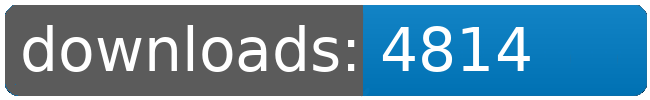
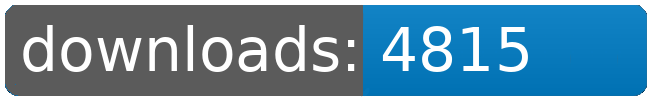
dl log written

Changed region(s): [[0.7692, 0.27, 0.8308, 0.72]]

diff --git a/README.md b/README.md
@@ -21,8 +21,8 @@
 		<td>4737</td>
 		<td>4764</td>
 		<td>4795</td>
-		<td>4814</td>
-		<td>+ 19</td>
+		<td>4815</td>
+		<td>+ 20</td>
 	</tr>
 	<tr>
 		<td>Factory.Outlets</td>
@@ -109,8 +109,8 @@
 		<td></td>
 		<td></td>
 		<td></td>
-		<td>39348</td>
-		<td>130</td>
+		<td>39349</td>
+		<td>131</td>
 	</tr>
 </table>
 </sub></sup>
@@ -157,8 +157,8 @@
 		<td>4737</td>
 		<td>4764</td>
 		<td>4795</td>
-		<td>4814</td>
-		<td>+ 19</td>
+		<td>4815</td>
+		<td>+ 20</td>
 	</tr>
 	<tr>
 		<td>Korunak.Defense.Drones</td>
@@ -223,8 +223,8 @@
 		<td></td>
 		<td></td>
 		<td></td>
-		<td>39348</td>
-		<td>130</td>
+		<td>39349</td>
+		<td>131</td>
 	</tr>
 </table>
 </sub></sup>
